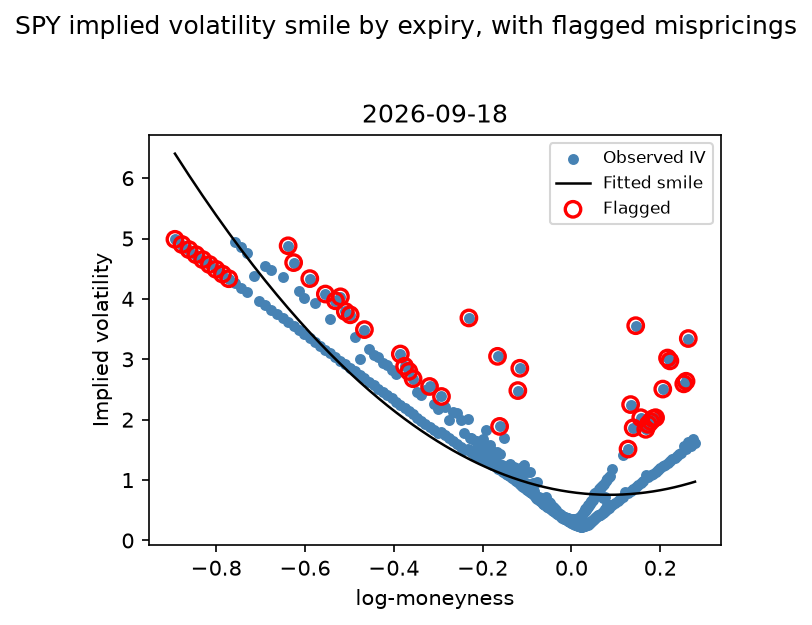
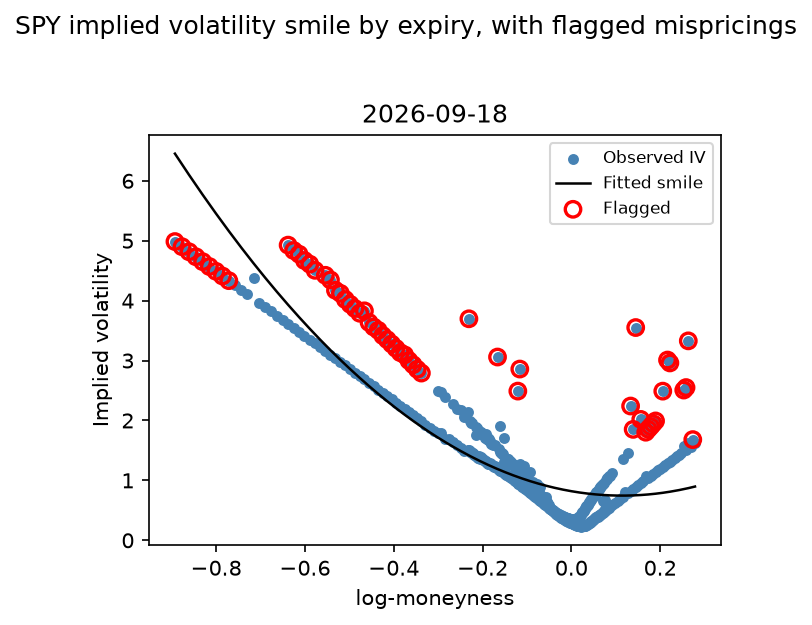
Add real-data results + control test isolating signal from vol risk premium

diff --git a/comparison.py b/comparison.py
@@ -1,0 +1,65 @@
+"""
+Control test: does the smile-deviation signal actually add value, or is the
+backtest result in backtest.py just capturing the volatility risk premium
+(the well-documented tendency for implied vol to run above realized vol)?
+
+Method: compute the same simulated PnL for ALL contracts as if you'd sold
+every single one (the "naive sell everything" baseline), then compare the
+FLAGGED group's PnL against the baseline population via a two-sample
+t-test. If flagged trades aren't significantly better than the baseline,
+the flagging step isn't adding predictive value.
+"""
+
+import numpy as np
+import pandas as pd
+from scipy import stats
+from backtest import payoff_at_expiry
+
+
+def naive_sell_all_pnl(flagged_df, realized_vol=0.18, n_scenarios=2000, seed=7):
+    """Simulated PnL from selling EVERY contract, regardless of flag status."""
+    rng = np.random.default_rng(seed)
+    pnls = []
+    for _, row in flagged_df.iterrows():
+        S, T, K = row["S"], row["T"], row["strike"]
+        Z = rng.standard_normal(n_scenarios)
+        S_T = S * np.exp((0 - 0.5 * realized_vol**2) * T + realized_vol * np.sqrt(T) * Z)
+        payoffs = np.array([payoff_at_expiry(s, K, row["option_type"]) for s in S_T])
+        pnls.append(row["market_price"] - payoffs.mean())  # PnL from selling
+    out = flagged_df.copy()
+    out["naive_sell_pnl"] = pnls
+    return out
+
+
+def compare_signal_to_baseline(flagged_df, trades_from_backtest):
+    """
+    Two-sample t-test: is the signal strategy's PnL significantly different
+    from the naive 'sell everything' baseline's PnL?
+    """
+    all_with_naive = naive_sell_all_pnl(flagged_df)
+    baseline_pnl = all_with_naive["naive_sell_pnl"]
+    signal_pnl = trades_from_backtest["pnl"]
+
+    t_stat, p_value = stats.ttest_ind(signal_pnl, baseline_pnl, equal_var=False)
+
+    print(f"Baseline (sell everything, n={len(baseline_pnl)}): "
+          f"mean={baseline_pnl.mean():.4f}, std={baseline_pnl.std(ddof=1):.4f}")
+    print(f"Signal (flagged trades only, n={len(signal_pnl)}): "
+          f"mean={signal_pnl.mean():.4f}, std={signal_pnl.std(ddof=1):.4f}")
+    print(f"\nDoes the signal beat the baseline? t={t_stat:.4f}, p={p_value:.4f}")
+    print("--> Signal adds value beyond the vol risk premium" if p_value < 0.05
+          else "--> Signal is NOT distinguishable from the general vol risk premium")
+
+    return {"baseline_mean": baseline_pnl.mean(), "signal_mean": signal_pnl.mean(),
+            "t_stat": t_stat, "p_value": p_value}
+
+
+if __name__ == "__main__":
+    from synthetic_data import generate_synthetic_chain
+    from analysis import add_implied_vols, fit_smile_and_flag
+    from backtest import run_backtest
+
+    raw = generate_synthetic_chain()
+    flagged = fit_smile_and_flag(add_implied_vols(raw))
+    trades, _ = run_backtest(flagged)
+    compare_signal_to_baseline(flagged, trades)

diff --git a/main.py b/main.py
@@ -6,6 +6,7 @@ data_fetch.get_spy_option_chains() for a real run (see README).
 
 import matplotlib
 
+from comparison import compare_signal_to_baseline
 from data_fetch import get_spy_option_chains
 matplotlib.use("Agg")
 import matplotlib.pyplot as plt
@@ -24,6 +25,8 @@ def main():
     with_iv = add_implied_vols(raw)
     flagged = fit_smile_and_flag(with_iv)
     trades, summary = run_backtest(flagged)
+    from comparison import compare_signal_to_baseline
+    compare_signal_to_baseline(flagged, trades)
 
     print("=== Signal summary ===")
     print(f"Contracts analyzed: {len(flagged)}")
